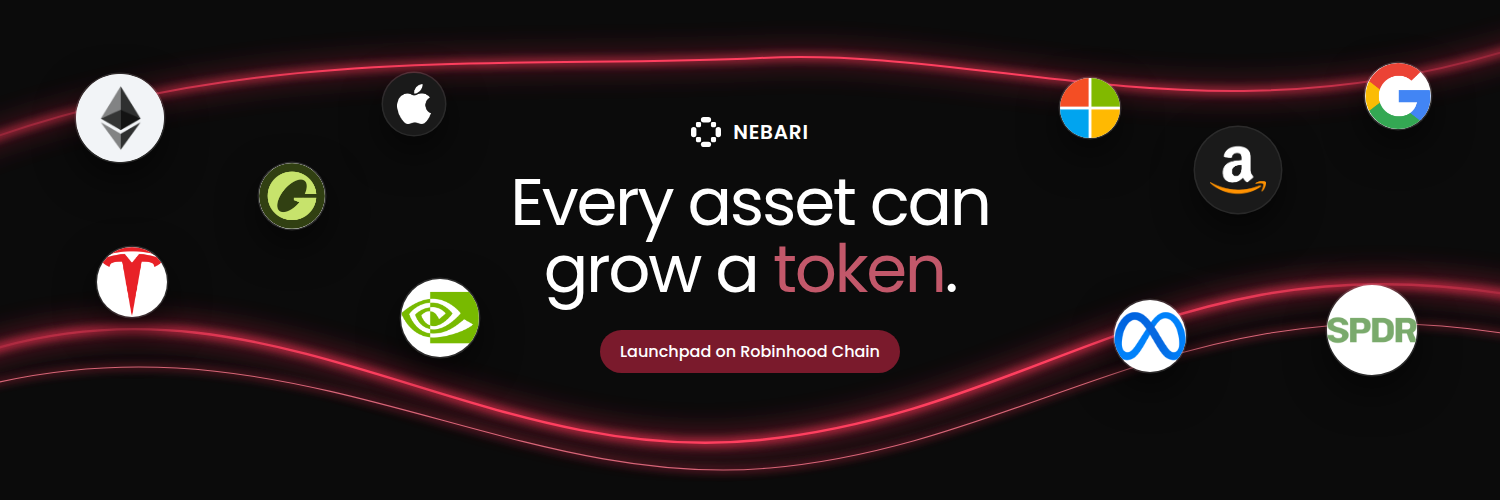
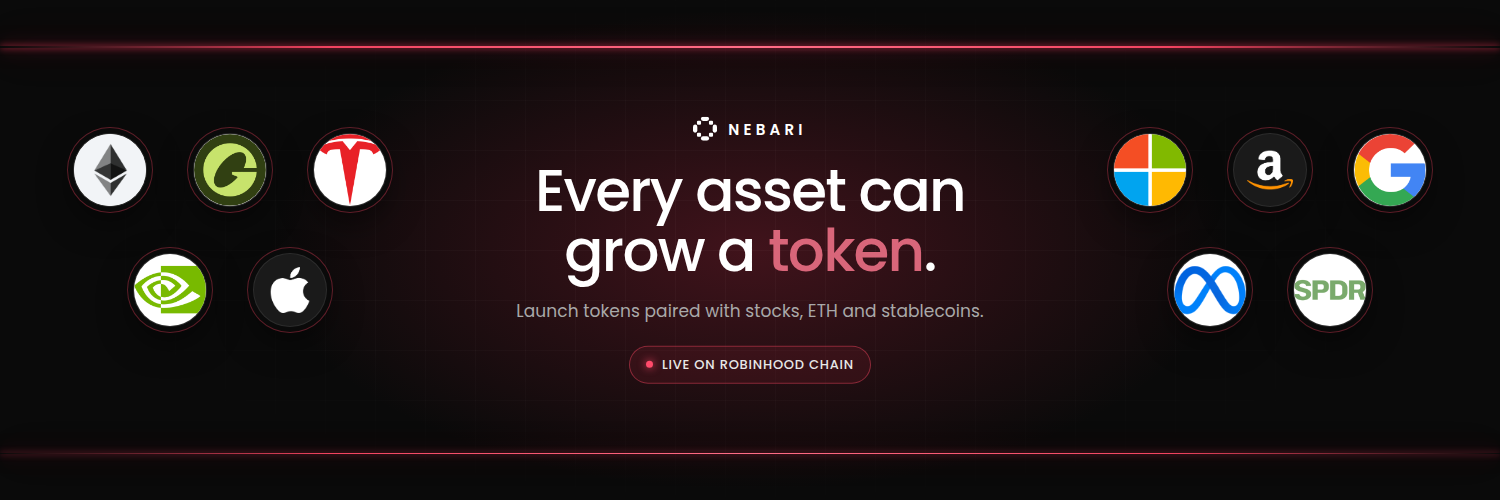
Nebari: a cleaner, more professional X header
- The ten asset logos sit in two ordered clusters of the same size, each
  on a white disc with a thin maroon ring.
- The neon waves are replaced by two thin neon rules framing the header.
- A faint grid fades out from the centre and a soft maroon light sits
  behind the words.
- Wordmark in spaced capitals, the slogan, one grey line of description
  and a small outlined "Live on Robinhood Chain" tag.
- The lower-left corner is still clear for the profile picture.

Claude-Session: https://claude.ai/code/session_019cZVYVR4XpBDnyP8dUKT2Q

diff --git a/nebari-site/brand/header.html b/nebari-site/brand/header.html
@@ -3,77 +3,73 @@
 <head>
 <meta charset="utf-8">
 <title>Nebari — X header</title>
-<!-- The X (Twitter) header, 1500x500. Rendered to header.png; edit here and re-render. -->
+<!-- The X (Twitter) header, 1500x500. Rendered to header.png and header@2x.png; edit here and re-render.
+     X lays the profile picture over the lower-left corner (about x < 372, y > 333), so nothing sits there. -->
 <style>
   @font-face { font-family: 'Poppins'; font-weight: 400; src: url('fonts/Poppins-Regular.ttf'); }
   @font-face { font-family: 'Poppins'; font-weight: 500; src: url('fonts/Poppins-Medium.ttf'); }
   @font-face { font-family: 'Poppins'; font-weight: 600; src: url('fonts/Poppins-SemiBold.ttf'); }
   html, body { margin: 0; }
-  .hdr { position: relative; width: 1500px; height: 500px; overflow: hidden; background: #0b0b0b; font-family: 'Poppins', sans-serif; color: #fff; }
-  .neon { position: absolute; inset: 0; width: 1500px; height: 500px; z-index: 0; }
-  .logo, .center { z-index: 1; }
-  .logo { position: absolute; transform: translate(-50%, -50%); border-radius: 50%; box-shadow: 0 0 0 1.5px rgba(255,255,255,0.14), 0 16px 40px rgba(0,0,0,0.6); overflow: hidden; background: #fff; }
+  .hdr { position: relative; width: 1500px; height: 500px; overflow: hidden; background: #0a0a0a; font-family: 'Poppins', sans-serif; color: #fff; }
+
+  /* a faint grid that fades out towards the edges */
+  .grid { position: absolute; inset: 0;
+    background-image: linear-gradient(rgba(255,255,255,0.045) 1px, transparent 1px), linear-gradient(90deg, rgba(255,255,255,0.045) 1px, transparent 1px);
+    background-size: 50px 50px; background-position: 25px 0;
+    -webkit-mask-image: radial-gradient(ellipse 60% 70% at 50% 50%, #000 0%, rgba(0,0,0,0.5) 45%, transparent 80%);
+            mask-image: radial-gradient(ellipse 60% 70% at 50% 50%, #000 0%, rgba(0,0,0,0.5) 45%, transparent 80%); }
+  /* a soft maroon light behind the words */
+  .glow { position: absolute; inset: 0; background: radial-gradient(ellipse 32% 48% at 50% 50%, rgba(140,31,51,0.42) 0%, rgba(140,31,51,0) 100%); }
+
+  /* two thin neon rules framing the header */
+  .rule { position: absolute; left: 0; right: 0; height: 1.5px;
+    background: linear-gradient(90deg, rgba(255,70,100,0) 0%, rgba(255,70,100,0.95) 22%, rgba(255,110,135,1) 50%, rgba(255,70,100,0.95) 78%, rgba(255,70,100,0) 100%);
+    box-shadow: 0 0 6px rgba(255,60,95,0.9), 0 0 18px rgba(214,40,75,0.65), 0 0 42px rgba(184,36,63,0.45); }
+  .rule.top { top: 46px; }
+  .rule.bottom { bottom: 46px; }
+
+  .logo { position: absolute; width: 72px; height: 72px; transform: translate(-50%, -50%); border-radius: 50%; overflow: hidden; background: #fff; z-index: 2;
+    box-shadow: 0 0 0 1px rgba(255,255,255,0.14), 0 0 0 6px #0a0a0a, 0 0 0 7px rgba(197,57,79,0.45), 0 14px 34px rgba(0,0,0,0.55); }
   .logo img { display: block; width: 100%; height: 100%; object-fit: cover; }
   .logo.dark { background: #1a1a1a; }
   .logo.dark img { object-fit: contain; padding: 18%; box-sizing: border-box; }
-  .center { position: absolute; left: 50%; top: 50%; transform: translate(-50%, -52%); text-align: center; width: 640px; }
-  .brand { display: inline-flex; align-items: center; gap: 12px; font-weight: 600; font-size: 20px; letter-spacing: .04em; margin-bottom: 22px; }
-  .brand svg { width: 30px; height: 30px; display: block; }
-  h1 { margin: 0; font-weight: 400; font-size: 66px; line-height: 1.02; letter-spacing: -0.035em; }
-  h1 em { font-style: normal; color: #c2586a; }
-  .chip { display: inline-block; margin-top: 26px; font-size: 16px; font-weight: 500; color: #fff; background: #7a1a2c; padding: 9px 20px; border-radius: 999px; }
+
+  .center { position: absolute; left: 50%; top: 50%; transform: translate(-50%, -50%); text-align: center; width: 640px; z-index: 2; }
+  .brand { display: inline-flex; align-items: center; gap: 11px; font-weight: 600; font-size: 15px; letter-spacing: .28em; margin-bottom: 20px; color: #fff; }
+  .brand svg { width: 24px; height: 24px; display: block; }
+  h1 { margin: 0; font-weight: 500; font-size: 58px; line-height: 1.04; letter-spacing: -0.03em; }
+  h1 em { font-style: normal; color: #d9667a; }
+  .sub { margin: 16px 0 0; font-size: 17px; font-weight: 400; color: #a9a9a9; letter-spacing: .005em; }
+  .chip { display: inline-flex; align-items: center; gap: 9px; margin-top: 22px; font-size: 13px; font-weight: 500; letter-spacing: .06em; text-transform: uppercase; color: #e8e8e8;
+    border: 1px solid rgba(197,57,79,0.6); background: rgba(140,31,51,0.18); padding: 8px 16px; border-radius: 999px; }
+  .chip i { width: 7px; height: 7px; border-radius: 50%; background: #ff4b6b; box-shadow: 0 0 8px #ff4b6b; display: block; }
 </style>
 </head>
 <body>
 <div class="hdr">
-  <!-- neon lines behind everything: a wide soft glow, a tighter glow, and a thin bright core -->
-  <svg class="neon" viewBox="0 0 1500 500" aria-hidden="true">
-    <defs>
-      <filter id="glow-wide" x="-10%" y="-50%" width="120%" height="200%"><feGaussianBlur stdDeviation="14"/></filter>
-      <filter id="glow-tight" x="-10%" y="-50%" width="120%" height="200%"><feGaussianBlur stdDeviation="4"/></filter>
-      <linearGradient id="fade" x1="0" x2="1" y1="0" y2="0">
-        <stop offset="0" stop-color="#ff3f5f" stop-opacity="0.15"/>
-        <stop offset="0.25" stop-color="#ff3f5f" stop-opacity="1"/>
-        <stop offset="0.75" stop-color="#ff3f5f" stop-opacity="1"/>
-        <stop offset="1" stop-color="#ff3f5f" stop-opacity="0.15"/>
-      </linearGradient>
-      <!-- the lower sweep runs under the pill, the upper one above the wordmark -->
-      <path id="sweep-low" d="M -40 360 C 260 250, 470 470, 760 440 S 1180 230, 1540 300"/>
-      <path id="sweep-high" d="M -40 150 C 240 40, 520 70, 760 58 S 1220 150, 1540 40"/>
-      <path id="sweep-thin" d="M -40 392 C 280 300, 500 492, 770 468 S 1200 270, 1540 340"/>
-    </defs>
-    <g fill="none" stroke-linecap="round">
-      <use href="#sweep-low"  stroke="#b8243f" stroke-width="18" opacity="0.55" filter="url(#glow-wide)"/>
-      <use href="#sweep-low"  stroke="#e0304f" stroke-width="7"  opacity="0.9"  filter="url(#glow-tight)"/>
-      <use href="#sweep-low"  stroke="url(#fade)" stroke-width="2.4"/>
-      <use href="#sweep-high" stroke="#b8243f" stroke-width="16" opacity="0.45" filter="url(#glow-wide)"/>
-      <use href="#sweep-high" stroke="#e0304f" stroke-width="6"  opacity="0.8"  filter="url(#glow-tight)"/>
-      <use href="#sweep-high" stroke="url(#fade)" stroke-width="2"/>
-      <use href="#sweep-thin" stroke="#e0304f" stroke-width="4"  opacity="0.55" filter="url(#glow-tight)"/>
-      <use href="#sweep-thin" stroke="#ff7a90" stroke-width="1.1" opacity="0.8"/>
-    </g>
-  </svg>
+  <div class="grid"></div>
+  <div class="glow"></div>
+  <div class="rule top"></div>
+  <div class="rule bottom"></div>
 
-  <!-- left side; the lower-left corner stays clear for the profile picture -->
-  <span class="logo" style="left:120px; top:118px; width:88px; height:88px"><img src="../assets/logos/eth.png" alt=""></span>
-  <span class="logo" style="left:292px; top:196px; width:66px; height:66px"><img src="../assets/logos/usdg.png" alt=""></span>
-  <span class="logo" style="left:132px; top:282px; width:70px; height:70px"><img src="../assets/logos/tsla.png" alt=""></span>
-  <span class="logo" style="left:440px; top:318px; width:78px; height:78px"><img src="../assets/logos/nvda.png" alt=""></span>
-  <span class="logo dark" style="left:414px; top:104px; width:62px; height:62px"><img src="../assets/logos/aapl.png" alt=""></span>
-  <!-- right side -->
-  <span class="logo" style="left:1090px; top:108px; width:60px; height:60px"><img src="../assets/logos/msft.png" alt=""></span>
-  <span class="logo dark" style="left:1238px; top:170px; width:86px; height:86px"><img src="../assets/logos/amzn.png" alt=""></span>
-  <span class="logo" style="left:1398px; top:96px; width:66px; height:66px"><img src="../assets/logos/googl.png" alt=""></span>
-  <span class="logo" style="left:1150px; top:336px; width:72px; height:72px"><img src="../assets/logos/meta.png" alt=""></span>
-  <span class="logo" style="left:1372px; top:330px; width:90px; height:90px"><img src="../assets/logos/spy.png" alt=""></span>
+  <!-- left cluster -->
+  <span class="logo" style="left:110px; top:170px"><img src="../assets/logos/eth.png" alt=""></span>
+  <span class="logo" style="left:230px; top:170px"><img src="../assets/logos/usdg.png" alt=""></span>
+  <span class="logo" style="left:350px; top:170px"><img src="../assets/logos/tsla.png" alt=""></span>
+  <span class="logo" style="left:170px; top:290px"><img src="../assets/logos/nvda.png" alt=""></span>
+  <span class="logo dark" style="left:290px; top:290px"><img src="../assets/logos/aapl.png" alt=""></span>
+  <!-- right cluster -->
+  <span class="logo" style="left:1150px; top:170px"><img src="../assets/logos/msft.png" alt=""></span>
+  <span class="logo dark" style="left:1270px; top:170px"><img src="../assets/logos/amzn.png" alt=""></span>
+  <span class="logo" style="left:1390px; top:170px"><img src="../assets/logos/googl.png" alt=""></span>
+  <span class="logo" style="left:1210px; top:290px"><img src="../assets/logos/meta.png" alt=""></span>
+  <span class="logo" style="left:1330px; top:290px"><img src="../assets/logos/spy.png" alt=""></span>
 
   <div class="center">
-    <div class="brand">
-      <svg viewBox="0 0 100 100" fill="#fff" aria-hidden="true"><rect x="33" y="0" width="34" height="18" rx="9"/><rect x="33" y="82" width="34" height="18" rx="9"/><rect x="0" y="33" width="18" height="34" rx="9"/><rect x="82" y="33" width="18" height="34" rx="9"/><rect x="16.5" y="16.5" width="17" height="17" rx="4.5"/><rect x="66.5" y="16.5" width="17" height="17" rx="4.5"/><rect x="16.5" y="66.5" width="17" height="17" rx="4.5"/><rect x="66.5" y="66.5" width="17" height="17" rx="4.5"/></svg>
-      NEBARI
-    </div>
+    <div class="brand"><svg viewBox="0 0 100 100" fill="#fff" aria-hidden="true"><rect x="33" y="0" width="34" height="18" rx="9"/><rect x="33" y="82" width="34" height="18" rx="9"/><rect x="0" y="33" width="18" height="34" rx="9"/><rect x="82" y="33" width="18" height="34" rx="9"/><rect x="16.5" y="16.5" width="17" height="17" rx="4.5"/><rect x="66.5" y="16.5" width="17" height="17" rx="4.5"/><rect x="16.5" y="66.5" width="17" height="17" rx="4.5"/><rect x="66.5" y="66.5" width="17" height="17" rx="4.5"/></svg>NEBARI</div>
     <h1>Every asset can<br>grow a <em>token</em>.</h1>
-    <span class="chip">Launchpad on Robinhood Chain</span>
+    <p class="sub">Launch tokens paired with stocks, ETH and stablecoins.</p>
+    <span class="chip"><i></i>Live on Robinhood Chain</span>
   </div>
 </div>
 </body>
